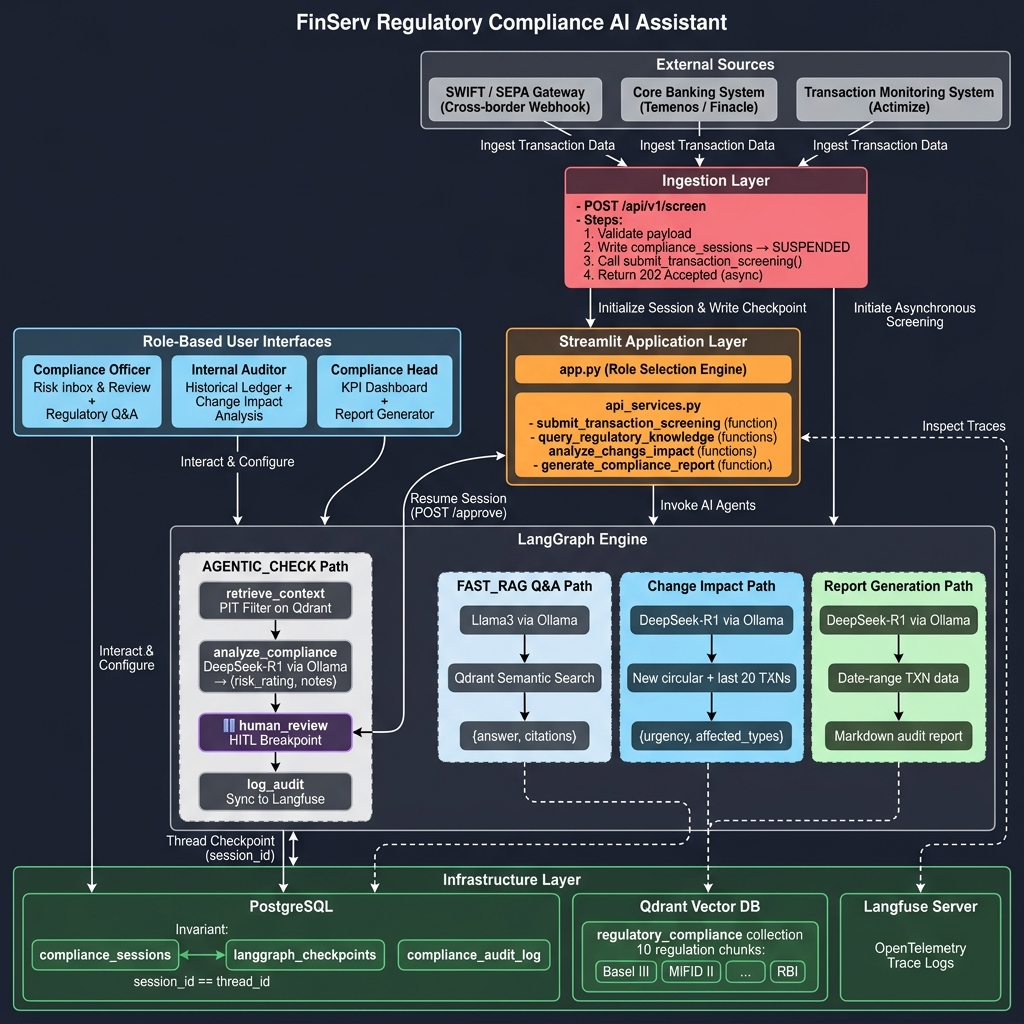
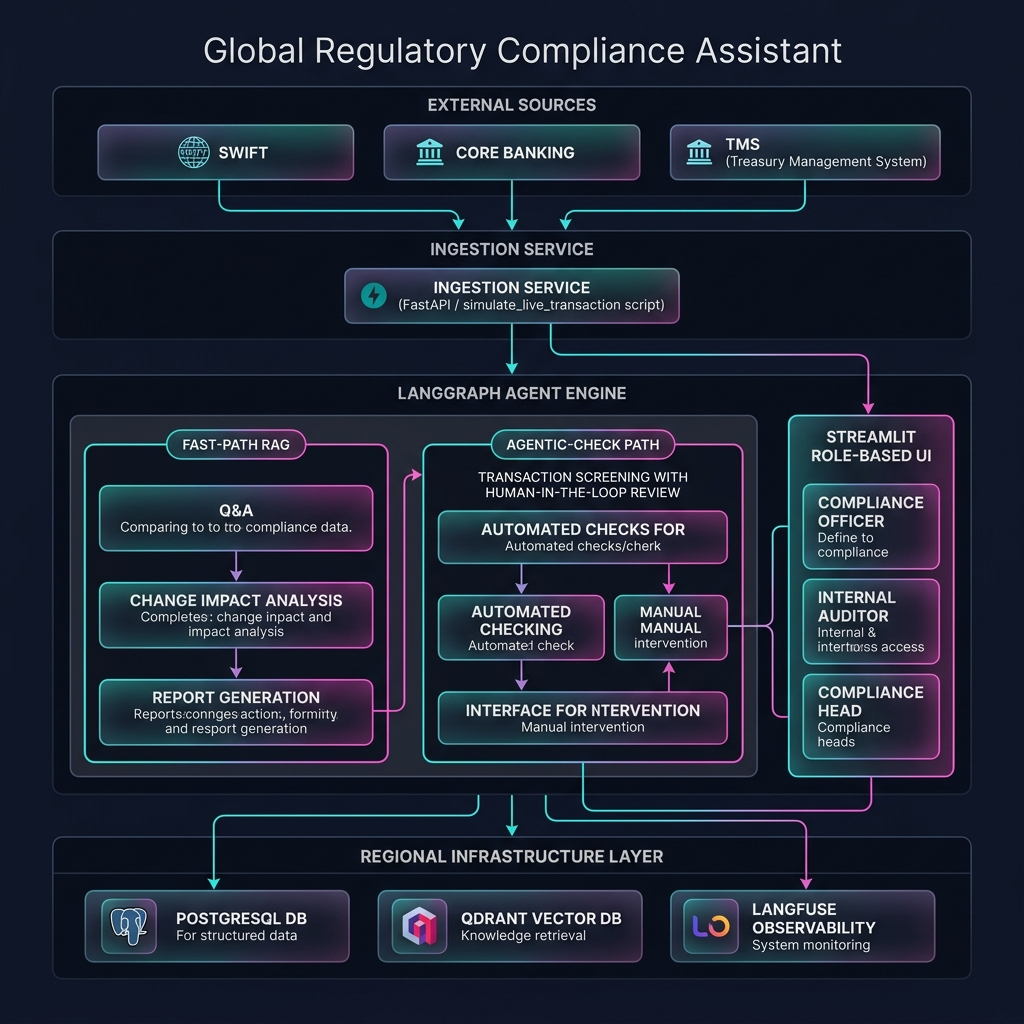
Architecure refinement

diff --git a/README.md b/README.md
@@ -1,4 +1,4 @@
-# 🏦 FinServ Global Regulatory Compliance Assistant
+# 🏦 Global Regulatory Compliance Assistant
 
 > **A self-hosted, LLM-powered compliance engine** that screens cross-border financial transactions, answers regulatory questions from a versioned knowledge base, assesses the impact of new circulars, and generates audit-ready reports — all without sending a single byte of financial data to external cloud APIs.
 
@@ -94,43 +94,60 @@ External Source (SWIFT / Core Banking / TMS)
 
 ## UI Screenshots
 
+### 👮 Compliance Officer Workspace
+
 <table>
-<tr>
-<td width="50%">
+  <tr>
+    <td width="50%">
+      <b>Risk Inbox & Review</b><br>
+      <i>Main queue for transaction screening alerts</i>
+      <img src="tests/results/compliance_officer_view.png" alt="Compliance Officer View" width="100%"/>
+    </td>
+    <td width="50%">
+      <b>Regulatory Q&A Chat</b><br>
+      <i>Fast RAG lookup for versioned regulations</i>
+      <img src="tests/results/qa_chat.png" alt="Regulatory Q&A" width="100%"/>
+    </td>
+  </tr>
+</table>
 
-**Compliance Officer — Risk Inbox & Review**
-![Officer View](tests/results/compliance_officer_view.png)
+### 🔍 Internal Auditor Workspace
 
-</td>
-<td width="50%">
+<table>
+  <tr>
+    <td width="33%">
+      <b>Historical Ledger</b><br>
+      <i>Audit trail of all transaction decisions</i>
+      <img src="tests/results/internal_audit_view.png" alt="Historical Ledger" width="100%"/>
+    </td>
+    <td width="33%">
+      <b>Regulatory Change Impact</b><br>
+      <i>Submit circulars to assess system impact</i>
+      <img src="tests/results/regulatory_change_impact.png" alt="Regulatory Change Impact" width="100%"/>
+    </td>
+    <td width="33%">
+      <b>Impact Analysis</b><br>
+      <i>LLM assessment of affected transaction types</i>
+      <img src="tests/results/regulatory_change_impact_analysis.png" alt="Change Impact Analysis" width="100%"/>
+    </td>
+  </tr>
+</table>
 
-**Compliance Officer — Regulatory Q&A**
-![Q&A Chat](tests/results/qa_chat.png)
+### 📈 Compliance Head Dashboard
 
-</td>
-</tr>
-<tr>
-<td width="50%">
-
-**Internal Auditor — Ledger & Trace Links**
-![Auditor View](tests/results/internal_audit_view.png)
-
-</td>
-<td width="50%">
-
-**Internal Auditor — Regulatory Change Impact**
-![Change Impact](tests/results/regulatory_change_impact.png)
-
-</td>
-</tr>
-<tr>
-<td colspan="2">
-
-**Compliance Head — Executive KPI Dashboard**
-![Head View](tests/results/compliance_head_view.png)
-
-</td>
-</tr>
+<table>
+  <tr>
+    <td width="50%">
+      <b>Executive KPI Dashboard</b><br>
+      <i>Macro compliance metrics and breach trends</i>
+      <img src="tests/results/compliance_head_view.png" alt="Compliance Head View" width="100%"/>
+    </td>
+    <td width="50%">
+      <b>Audit Report Generator</b><br>
+      <i>Generate and download Markdown audit reports</i>
+      <img src="tests/results/audit_report_generation.png" alt="Audit Report Generation" width="100%"/>
+    </td>
+  </tr>
 </table>
 
 ---

diff --git a/assessment_report.md b/assessment_report.md
@@ -1,4 +1,4 @@
-# 🏦 Architecture Assessment Report: FinServ Global Compliance Assistant
+# 🏦 Architecture Assessment Report: Global Regulatory Compliance Assistant
 **Submission Date:** June 9, 2026  
 **Status:** Ready for Technical Evaluation  
 